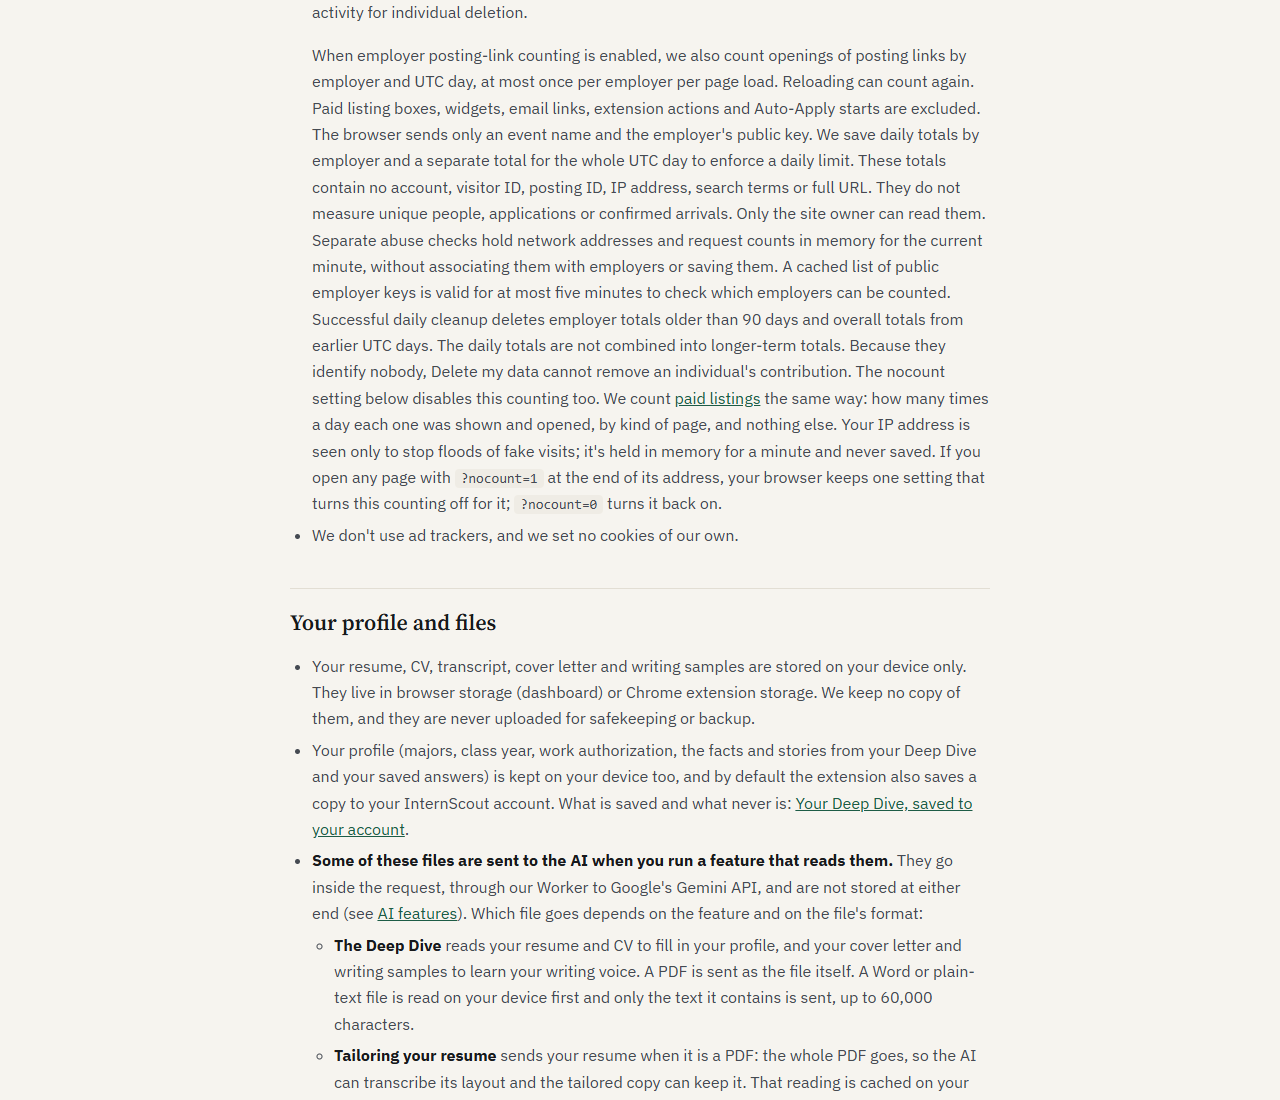
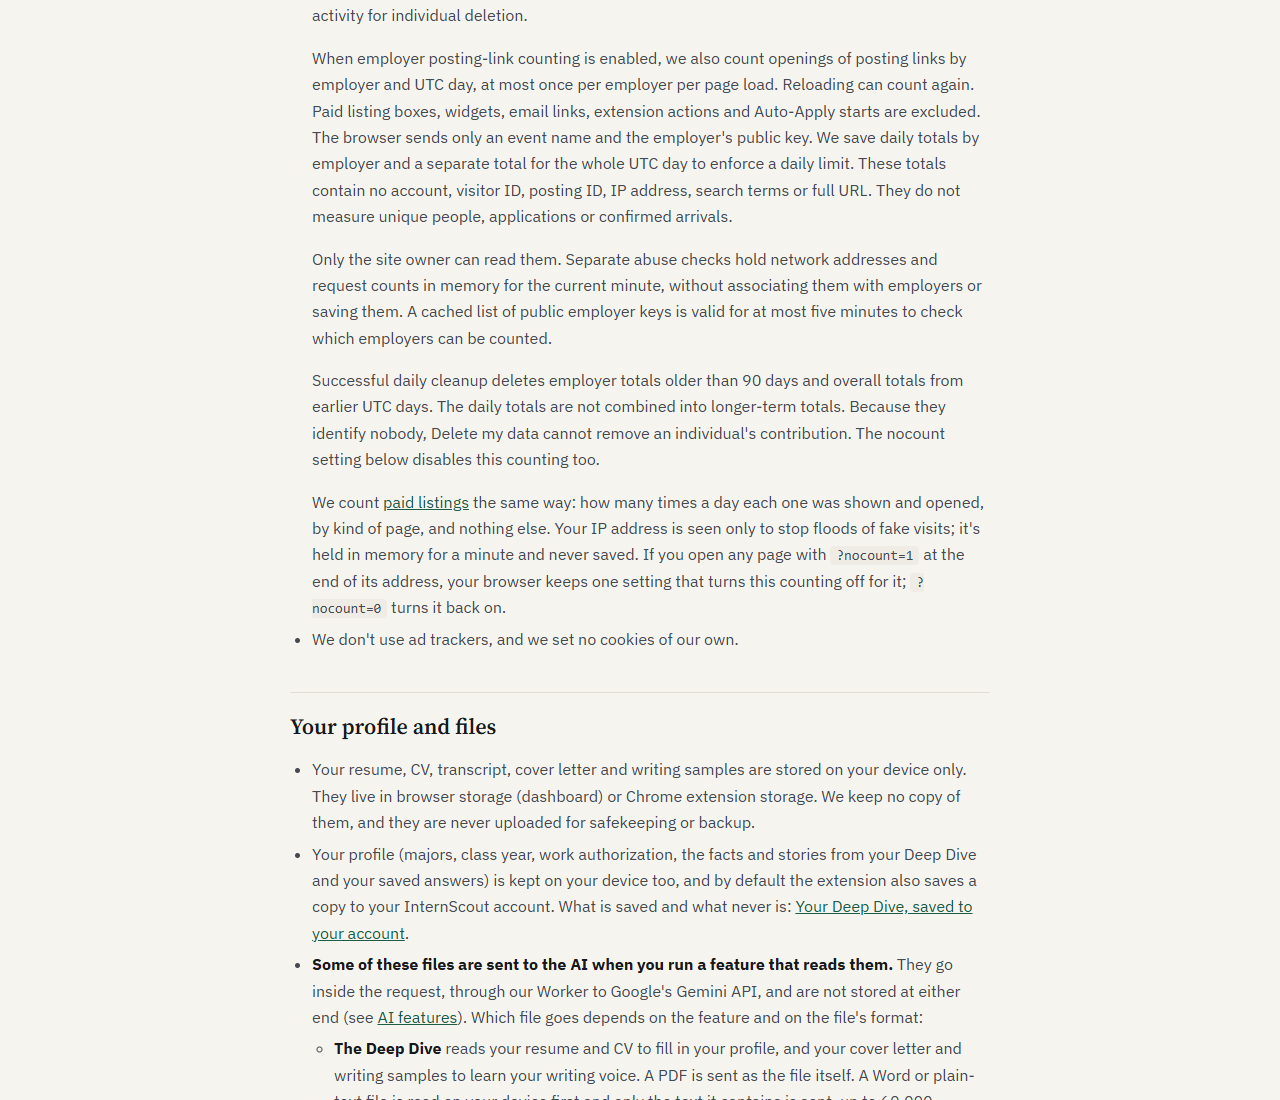
product: separate employer privacy disclosure into paragraphs

Changed region(s): [[0.2188, 0.0, 0.7812, 1.0]]

diff --git a/docs/privacy.html b/docs/privacy.html
@@ -240,7 +240,9 @@
            previous sentence after removing event_attribution and count.js session context. -->
       <li>Because Cloudflare only samples visits, our own server also counts them. Each page load sends the page's address, the name of the site that linked to it (such as google.com, not the full link) and any short campaign tags on the link. We keep only daily totals by kind of page and where visits came from, for example "landing pages, from search: 12". If a tagged link brought you here, its short source, medium, campaign and content labels stay in this tab until you close it. They have no visitor ID and are used only to add anonymous daily totals for a Chrome Web Store click, a weekly email form submission or an employer order form submission. The detailed campaign rows are deleted after 400 days. Those totals do not say that an extension was installed, an email subscription was confirmed or an order was paid. The same way, we count how many times a day a few steps happen (pressing a link to the Chrome Web Store, pressing a link to review the extension there, opening a posting, seeing or pressing the "Add to Chrome" suggestion that can appear after you open one, seeing a weekly email invitation, pressing its link or sending its sign-up form (only the invitation's position and that it was seen, pressed or sent, never the address you typed or whether you confirmed), our server seeing an account for the first time, signing in on the site or in the extension, saving a first profile, starting Auto-Apply, a first Auto-Apply of the month, reaching a monthly limit, opening your invite link, opening a plan's checkout, buying a plan), as totals that say nothing about who.
       <p data-counter-disclosure>When these features and their counters are enabled, we also count expanding a company's results, choosing a major, saving a role, opening My list, pressing a share link, opening our GitHub list or widget page, seeing the out-of-runs panel, and pressing its invite, top-up or plan controls. This includes opening or sending a company or search email-follow form, reaching its confirmation page, playing the demo, and pressing Print on a flyer. Each of these browser steps is counted at most once per page load, as a daily total by step and kind of page. These stored totals contain no account ID, email address, company, role, chosen major or search terms. They do not prove that an email subscription was confirmed, a purchase completed, or a flyer printed. These aggregate totals have no automatic expiry and cannot identify a person's activity for individual deletion.</p>
-      When employer posting-link counting is enabled, we also count openings of posting links by employer and UTC day, at most once per employer per page load. Reloading can count again. Paid listing boxes, widgets, email links, extension actions and Auto-Apply starts are excluded. The browser sends only an event name and the employer's public key. We save daily totals by employer and a separate total for the whole UTC day to enforce a daily limit. These totals contain no account, visitor ID, posting ID, IP address, search terms or full URL. They do not measure unique people, applications or confirmed arrivals. Only the site owner can read them. Separate abuse checks hold network addresses and request counts in memory for the current minute, without associating them with employers or saving them. A cached list of public employer keys is valid for at most five minutes to check which employers can be counted. Successful daily cleanup deletes employer totals older than 90 days and overall totals from earlier UTC days. The daily totals are not combined into longer-term totals. Because they identify nobody, Delete my data cannot remove an individual's contribution. The nocount setting below disables this counting too.
+      <p>When employer posting-link counting is enabled, we also count openings of posting links by employer and UTC day, at most once per employer per page load. Reloading can count again. Paid listing boxes, widgets, email links, extension actions and Auto-Apply starts are excluded. The browser sends only an event name and the employer's public key. We save daily totals by employer and a separate total for the whole UTC day to enforce a daily limit. These totals contain no account, visitor ID, posting ID, IP address, search terms or full URL. They do not measure unique people, applications or confirmed arrivals.</p>
+      <p>Only the site owner can read them. Separate abuse checks hold network addresses and request counts in memory for the current minute, without associating them with employers or saving them. A cached list of public employer keys is valid for at most five minutes to check which employers can be counted.</p>
+      <p>Successful daily cleanup deletes employer totals older than 90 days and overall totals from earlier UTC days. The daily totals are not combined into longer-term totals. Because they identify nobody, Delete my data cannot remove an individual's contribution. The nocount setting below disables this counting too.</p>
       We count <a href="#paid-listings">paid listings</a> the same way: how many times a day each one was shown and opened, by kind of page, and nothing else. Your IP address is seen only to stop floods of fake visits; it's held in memory for a minute and never saved. If you open any page with <code>?nocount=1</code> at the end of its address, your browser keeps one setting that turns this counting off for it; <code>?nocount=0</code> turns it back on.</li>
       <li>We don't use ad trackers, and we set no cookies of our own.</li>
     </ul>
